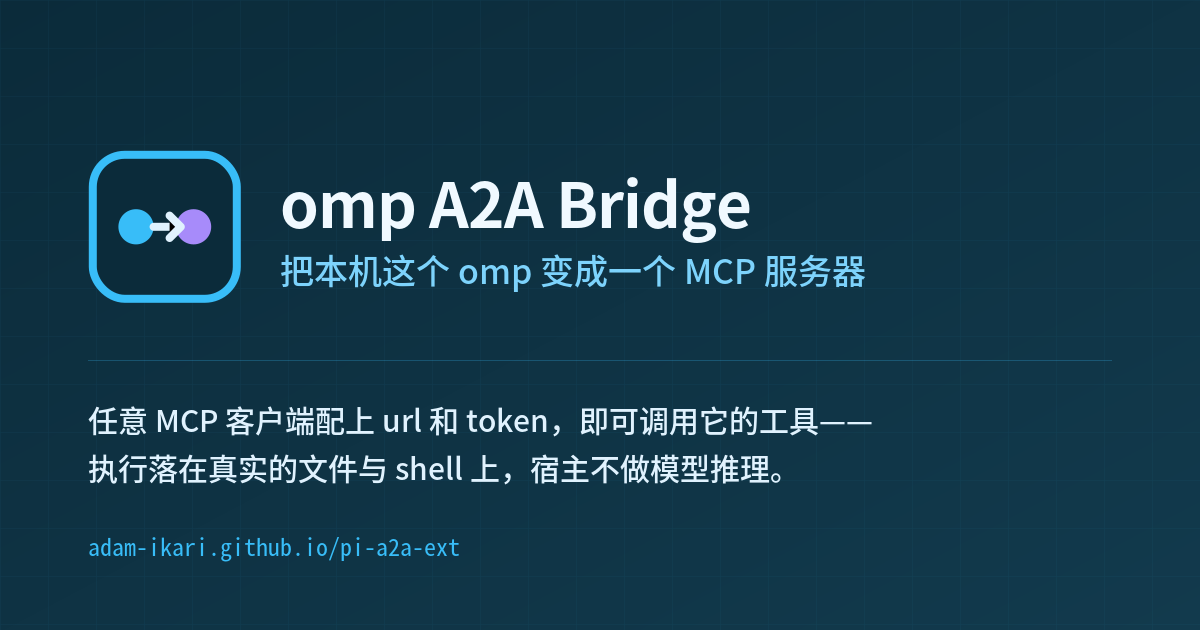
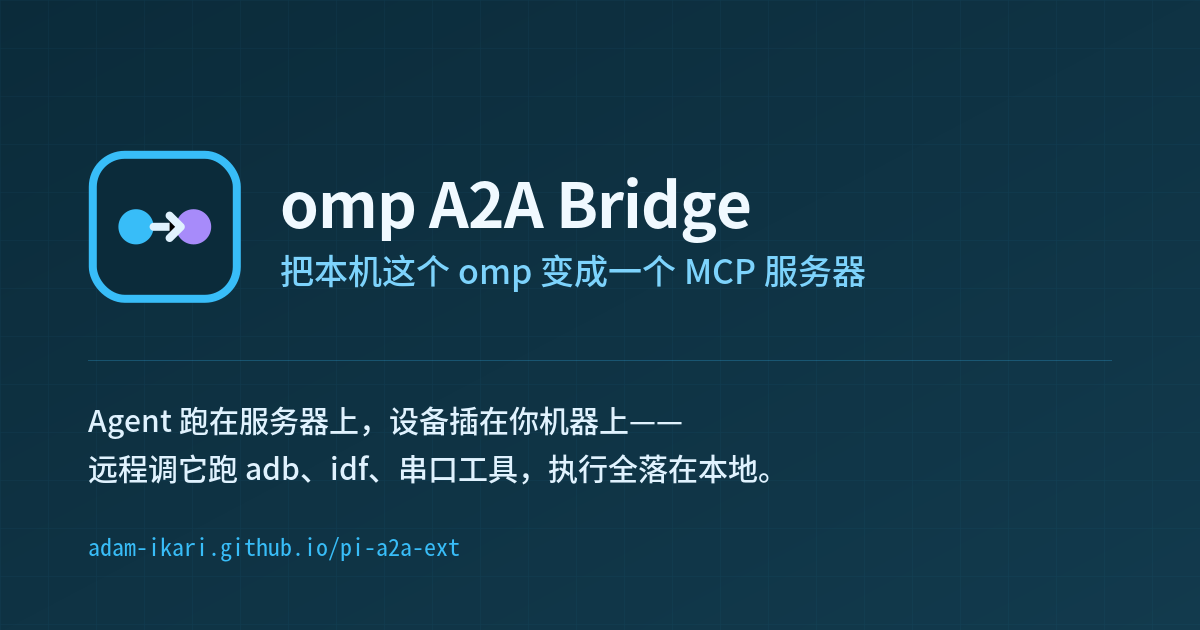
docs: 首页与指南改写痛点；修 CI site job 的假失败
痛点此前完全没写。hero 与 feature 卡片全在讲「我是什么」——协议版本、端口、
token、inputSchema——没有一句讲「你为什么来」。而实际场景是：Agent 跑在服务器
上，设备插在本机，中间的 USB 没人能跨。

- hero 改为「让远程的 agent 操作你本地的设备」，tagline 落到 adb / idf / 串口
  工具与宿主挂载的调试设备
- README（中英）新增「设备 / Devices」一节，两种形态都写清：**工具链走 bash**
  （adb、idf.py、烧录器不是 omp 的工具，是本机命令，PATH 上有什么就有什么）；
  **挂载设备走 read / write 的 path**（read {"path":"xd://"} 列清单，
  write {"path":"xd://debug"} 执行）
- 全部实测，不是推断：
  · 远程 tools/call {"name":"bash","arguments":{"command":"adb version"}} 拿到
    本机 SDK 路径与 Android Debug Bridge version 1.0.41 —— 通道通（该机当时未
    插设备，故 adb devices 为空）
  · 远程 read {"path":"xd://"} 返回 5 个挂载设备：xd://debug（DAP 调试器）、
    xd://lsp、xd://ast_edit、xd://omniroute_status、xd://omniroute_sync
  · tools/call {"name":"xd://"} 被拒（not exposed）——设备不是独立工具名，
    只有 read / write 的 path 能到达。这是宿主的形态，桥不改写
  · tools/list 里一个 xd:// 都没有（21 个工具），所以「远程能碰设备」在目录上
    完全看不出来，只能在正文讲
- feature 卡片顺手改掉三处已过期的描述（上一轮删掉的「6 个文件传输工具」
  「五个核验脚本」「跨机器安装」），并新增一张指向 /intro#设备
- OG 卡片同步为痛点表述

同时修 CI：上一提交让 site job 红了。headless 浏览器在 runner 上静默返回空
DOM（dom=0B），三个页面全被判 FAIL，而真因是浏览器没跑起来。

- 核验新增控制项：先请求不存在的路径（服务此时返回 404.html），控制项也空就以
  退出码 2 报「harness 坏了，下面的结果不作数」，而不是报三个幻影失败
- 404 改为服务真实的 404.html，此前是纯文本 "not found"
- CI 改用 playwright 的 chromium 并以 CHROME 指过去，不再赌镜像自带哪个浏览器
  （apt 的 chromium-browser 在 Ubuntu 24.04 上是 snap 包装器，会失败）
- 验过控制项会失败：CHROME 指向不存在的路径 → 报可读原因并 exit 1

验证：tsc 0 errors；bun test 54/54；lint 0 错 0 警；站点构建 SUCCESS；
render-check 30 项全绿（含新增控制项），两种 base 布局下均通过。

Changed region(s): [[0.0617, 0.6333, 0.7092, 0.6937], [0.0617, 0.7238, 0.6475, 0.7841]]

diff --git a/CHANGELOG.md b/CHANGELOG.md
@@ -2,6 +2,21 @@
 
 本项目暂无 git 标签/发布版本，按日期倒序分节（组内按依赖顺序）；面向使用者与开发者的变更，纯内部记忆提交（`brain:`）不收录。括号内为 commit 短 sha。
 
+## 2026-10-01 — 首页与指南改写痛点：远程够不到本地设备
+
+- fix: **CI 的 `site` job 红了**（上一提交引入）。headless 浏览器在 runner 上静默返回空 DOM（`dom=0B`），三个页面全被判 FAIL——而真因是浏览器没跑起来，不是图坏了。核验新增**控制项**：先请求一个不存在的页面（此时服务 404.html），控制项也空就以退出码 2 报「harness 坏了，下面的结果不作数」；顺带让 404 走真实的 `404.html`（此前是纯文本 `not found`）。CI 侧改为装 playwright 的 chromium 并用 `CHROME` 指过去，不再赌镜像自带哪个浏览器
+
+
+- docs: hero 与 feature 卡片此前全在讲「我是什么」（协议版本、端口、token），没有一句讲「你为什么来」。改为先说痛点：Agent 跑在服务器上、设备插在本机，中间的 USB 没人能跨；hero 改为「让远程的 agent 操作你本地的设备」，tagline 落到 adb / idf / 串口工具与宿主挂载的调试设备
+- docs: README（中英）新增「设备 / Devices」一节，并成为 feature 卡片「远程能碰到什么」的落点。两种形态都写清：**工具链走 `bash`**（adb、idf.py、烧录器不是 omp 的工具，是本机命令，PATH 上有什么就有什么）；**挂载设备走 `read` / `write` 的 `path`**（`read {"path":"xd://"}` 列清单，`write {"path":"xd://debug"}` 执行）
+- 全部结论实测，不是推断：
+  - 远程 `tools/call {"name":"bash","arguments":{"command":"adb version"}}` → 拿到本机 SDK 路径与 `Android Debug Bridge version 1.0.41`。通道通（该机当时未插设备，故 `adb devices` 为空）
+  - 远程 `read {"path":"xd://"}` → `isError=false`，返回 5 个挂载设备：`xd://debug`（DAP 调试器）、`xd://lsp`、`xd://ast_edit`、`xd://omniroute_status`、`xd://omniroute_sync`
+  - **`tools/call {"name":"xd://"}` 被拒**（`not exposed`）——设备不是独立工具名，只有 `read` / `write` 的 path 能到达。这是宿主的形态，桥不改写
+  - `tools/list` 里一个 `xd://` 都没有（21 个工具），所以「远程能碰设备」这件事在目录上完全看不出来，只在正文里讲
+- docs: feature 卡片顺手改掉三处已过期的描述（上一轮删掉的「6 个文件传输工具」「五个核验脚本」「跨机器安装」）
+- docs: OG 卡片同步为痛点表述
+
 ## 2026-10-01 — 三个真实宿主核验接入 CI
 
 - test: **核验不再需要模型凭据**。四个探针原先都拷 `~/.omp/agent/models.yml`（真实 provider + 真实 API key），这是它们只能在开发机上跑的原因。桥只跑工具、不推理，宿主启动只需要「有模型配置」——实测一个故意不可达的 provider 就能让宿主起来并把桥带起来。新增 `test/harness.ts` 提供该占位配置（`A2A_PROBE_REAL_MODELS=1` 可切回真实配置）

diff --git a/README.md b/README.md
@@ -164,6 +164,31 @@ scp ./data.tar user@host:~/data.tar
 
 The bridge sets no `fileRoot`, no `deny` list, and does not interpret paths — calls land on the host's real files and shell, and the host's own configuration decides what is permitted (see "Security and boundaries").
 
+## Devices
+
+The agent runs on a server, the device is plugged into your machine, and nothing crosses the USB in between. The host exposes devices in two shapes, and both pass through unchanged.
+
+**Toolchains (`bash`).** `adb`, `idf.py`, serial tools and flashers are not omp tools — they are commands on this machine. `bash` is in `tools/list`, so a remote client runs them directly:
+
+```json
+{ "jsonrpc": "2.0", "id": 1, "method": "tools/call",
+  "params": { "name": "bash", "arguments": { "command": "adb devices -l" } } }
+```
+
+Execution lands in the local shell, so whatever is on `PATH` is reachable: with the Android SDK installed, `adb` is callable; with ESP-IDF installed, `idf.py flash` is. Port monitors and register pokes work the same way.
+
+**Mounted devices (`xd://`).** The host mounts some tools as virtual devices. **They are not in `tools/list`** — they are driven through the `path` argument of `read` / `write`:
+
+```json
+{ "name": "read",  "arguments": { "path": "xd://" } }                    // list mounted devices
+{ "name": "read",  "arguments": { "path": "xd://debug" } }               // docs + JSON schema
+{ "name": "write", "arguments": { "path": "xd://debug", "content": { … } } }  // execute
+```
+
+The listing is decided by the host at runtime — it depends on which extensions are installed and which devices are attached. Measured on this machine: `xd://debug` (a DAP debugger), `xd://lsp`, `xd://ast_edit`.
+
+**Calling `xd://` directly through `tools/call` is refused** (`not exposed`): a device is not a tool name, and only the `path` of `read` / `write` reaches it. That is the host's shape; the bridge does not rewrite it.
+
 ## Security and boundaries
 
 - **The token is full tool-execution authority (under the default config)**: the host's default `approvalMode: yolo` means anyone holding the token can execute any exposed tool (including `bash`) directly in the host session with no approval step; only tools the host configures as `prompt` have a gate that can stop them (see [Approval](#approval) for the no-UI case). Keep the config file at `0600` and out of version control.

diff --git a/README_ZN.md b/README_ZN.md
@@ -156,6 +156,31 @@ scp ./data.tar user@host:~/data.tar
 
 桥不设 `fileRoot`、不设 `deny`、不解释路径——执行落在宿主真实的文件与 shell 上，权限由宿主自己的配置决定（见「安全与边界」）。
 
+## 设备
+
+Agent 跑在服务器上、设备插在本机——中间的 USB 没人能跨。设备在宿主那边有两种形态，桥都原样透传。
+
+**工具链（`bash`）**。`adb`、`idf.py`、串口工具、烧录器都不是 omp 的工具，是本机上的命令。`bash` 在 `tools/list` 里，于是远程直接跑：
+
+```json
+{ "jsonrpc": "2.0", "id": 1, "method": "tools/call",
+  "params": { "name": "bash", "arguments": { "command": "adb devices -l" } } }
+```
+
+执行落在本机的 shell，PATH 上有什么就有什么——装了 Android SDK 就调得到 adb，ESP-IDF 装了就能 `idf.py flash`。端口监视、寄存器读写同理。
+
+**挂载设备（`xd://`）**。宿主把一些工具挂成虚拟设备，**它们不在 `tools/list` 里**，而是通过 `read` / `write` 的 `path` 参数驱动：
+
+```json
+{ "name": "read",  "arguments": { "path": "xd://" } }              // 列出挂载的设备
+{ "name": "read",  "arguments": { "path": "xd://debug" } }         // 取该设备的文档与 JSON schema
+{ "name": "write", "arguments": { "path": "xd://debug", "content": { … } } }  // 执行
+```
+
+清单由宿主运行时决定——装了哪些扩展、接了什么设备，就有什么。本机实测挂载的是 `xd://debug`（DAP 调试器）、`xd://lsp`、`xd://ast_edit`。
+
+**`tools/call` 直接叫 `xd://` 会被拒**（`not exposed`）：设备不是独立工具名，只有 `read` / `write` 的 `path` 能到达。这是宿主的形态，桥不改写它。
+
 ## 安全与边界
 
 - **token 即工具执行全权（默认配置下）**：宿主默认 `approvalMode: yolo`，拿到 token 就可在宿主会话里直接执行任意暴露的工具（含 `bash`），不经过任何审批；只有宿主把工具配成 `prompt` 才有审批门可拦（无 UI 时见审批节）。配置文件保持 `0600`，不要进版本库。
